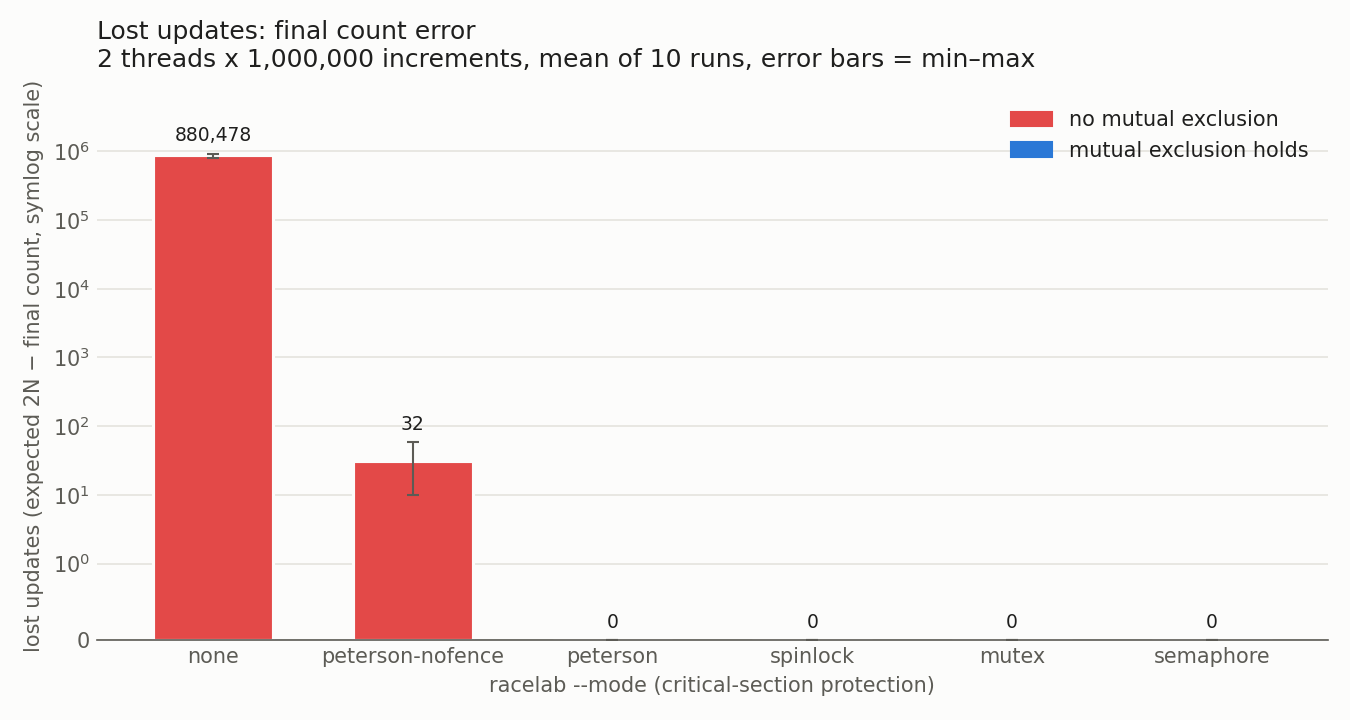
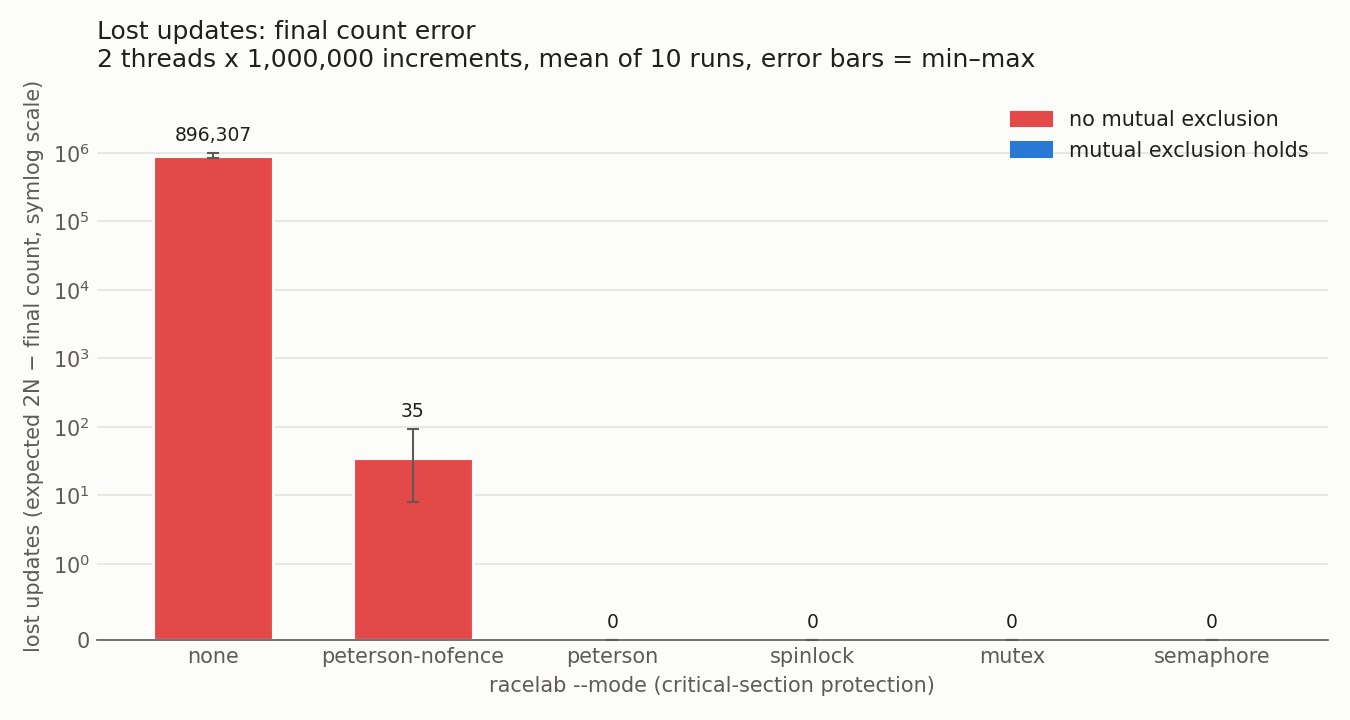
[Phase 3] Gate M3: phase3_check (zero deadlocks in E3 under avoid/prevent), lock hierarchy, regenerated E3/E4

diff --git a/docs/EXPERIMENTS.md b/docs/EXPERIMENTS.md
@@ -459,21 +459,21 @@ modify and write, inside the entry and exit sections of mode M:
 ### Results
 | Mode | Lost updates, mean (min–max) | Runs that lost updates | Runtime, ms, mean (min–max) | ns per increment |
 |------|-----------------------------:|-----------------------:|----------------------------:|-----------------:|
-| `none` | 880,478 (812,723–925,737) | 10/10 | 16.8 (16.5–17.4) | 8.4 |
-| `peterson-nofence` | 31.6 (10–58) | **10/10** | 100.5 (59.3–109.5) | 50.2 |
-| `peterson` | 0 | 0/10 | 72.9 (51.0–88.7) | 36.4 |
-| `spinlock` | 0 | 0/10 | 38.8 (30.0–47.8) | 19.4 |
-| `mutex` | 0 | 0/10 | 41.8 (36.4–45.1) | 20.9 |
-| `semaphore` | 0 | 0/10 | 115.0 (102.9–125.8) | 57.5 |
+| `none` | 896,307 (852,297–977,276) | 10/10 | 16.9 (16.3–17.4) | 8.4 |
+| `peterson-nofence` | 34.8 (8–93) | **10/10** | 100.8 (57.8–110.5) | 50.4 |
+| `peterson` | 0 | 0/10 | 76.5 (73.9–79.7) | 38.3 |
+| `spinlock` | 0 | 0/10 | 32.6 (25.8–41.5) | 16.3 |
+| `mutex` | 0 | 0/10 | 42.7 (37.9–45.2) | 21.4 |
+| `semaphore` | 0 | 0/10 | 111.6 (101.3–123.1) | 55.8 |
 
 ![Lost updates per mode](figures/e4/e4_error.png)
 ![Runtime per mode](figures/e4/e4_runtime.png)
 
 ### What the data shows
-- **No protection loses about 44% of the updates,** and the final count is different every run
-  (between 1.07 and 1.19 million instead of 2 million). Both threads load the same value, both add 1,
+- **No protection loses about 45% of the updates,** and the final count is different every run
+  (between 1.02 and 1.15 million instead of 2 million). Both threads load the same value, both add 1,
   and both store it, so one increment disappears. The race window is the whole read-modify-write.
-- **The textbook Peterson fails on x86 in every run, but only rarely within a run:** it lost 10–58 of
+- **The textbook Peterson fails on x86 in every run, but only rarely within a run:** it lost 8–93 of
   2,000,000 updates (an earlier check: 20 failing runs out of 20). Peterson's proof assumes sequential
   consistency. x86 is TSO, which keeps every ordering *except* store → load. Each core holds its
   stores in a private store buffer and lets later loads overtake them. So thread 0 can still be
@@ -482,19 +482,19 @@ modify and write, inside the entry and exit sections of mode M:
   Textbooks assume sequential consistency because it makes the algorithm provable on paper; CPUs
   give it up for speed. The fenced `peterson` drains the store buffer before the loads and lost
   nothing in 10 runs (and in 20 extra runs). ThreadSanitizer also passes it, because its flags are C11 atomics.
-- **The fence is not what makes Peterson slow.** `peterson` (73 ms) is faster than the unfenced version
+- **The fence is not what makes Peterson slow.** `peterson` (77 ms) is faster than the unfenced version
   (101 ms), and both are about 2× slower than the spinlock or mutex. The likely cause, which we did not
   measure, is that Peterson hands the turn to the other camp whenever both want in. Under constant
   contention that becomes near-strict alternation, so the counter and flag cache lines move between
   cores on almost every increment. The spinlock and mutex are not fair: the thread that just unlocked
   usually relocks at once while the line is still in its cache.
-- **Spinlock vs mutex:** they are about the same here (39 vs 42 ms). The critical section is a few
+- **Spinlock vs mutex:** they are about the same here (33 vs 43 ms). The critical section is a few
   nanoseconds, so a spinning waiter gets the lock almost immediately. A spinlock wastes a whole CPU
   while it waits, so it only pays off for very short sections on a multiprocessor. With one CPU, or a
   long section, the mutex wins because its waiter sleeps.
-- **The semaphore is the slowest correct mode** (115 ms). It does the same job as the mutex but goes
-  through glibc's general counting-semaphore code and made more futex calls under contention (593 vs
-  396). We did not profile further.
+- **The semaphore is the slowest correct mode** (112 ms). It does the same job as the mutex but goes
+  through glibc's general counting-semaphore code and made more futex calls under contention (450 vs
+  348). We did not profile further.
 
 ### How a Linux mutex becomes a futex (strace)
 `run_e4.sh` also runs `strace -f -e trace=futex -c` on each primitive. The full output is in
@@ -502,9 +502,9 @@ modify and write, inside the entry and exit sections of mode M:
 
 | Run | Lock operations | futex system calls |
 |-----|----------------:|-------------------:|
-| `mutex`, 2 threads (contended) | 2,000,000 | 396 (134 returned EAGAIN) |
+| `mutex`, 2 threads (contended) | 2,000,000 | 348 (113 returned EAGAIN) |
 | `mutex`, 1 thread (uncontended) | 1,000,000 | 3 |
-| `semaphore`, 2 threads | 2,000,000 | 593 (229 EAGAIN) |
+| `semaphore`, 2 threads | 2,000,000 | 450 (169 EAGAIN) |
 | `semaphore`, 1 thread | 1,000,000 | 3 |
 | `spinlock`, 2 threads | 2,000,000 | 4 |
 
@@ -515,7 +515,7 @@ modify and write, inside the entry and exit sections of mode M:
   only when that CAS finds the lock taken: `FUTEX_WAIT` puts the thread to sleep in the kernel, and the
   unlocker sees the waiter bit and calls `FUTEX_WAKE`. EAGAIN means the lock word changed between the
   failed CAS and the `FUTEX_WAIT`, so the kernel returned at once instead of sleeping.
-- **Even under full contention,** only about 1 lock operation in 5,000 needed the kernel (396 of
+- **Even under full contention,** only about 1 lock operation in 5,700 needed the kernel (348 of
   2,000,000). The semaphore is built the same way.
 - **The spinlock never makes a system call:** it waits by spinning on the CPU instead.
 - strace stops the traced thread on every futex call, which changes the timing and therefore the

diff --git a/docs/ARCHITECTURE.md b/docs/ARCHITECTURE.md
@@ -533,6 +533,73 @@ sudo apt install graphviz
 dot -Tpng docs/waitfor.dot -o docs/waitfor.png
 ```
 
+## Phase 3: the lock hierarchy (why reliefd itself cannot deadlock)
+reliefd runs many threads:
+- the main thread;
+- the rescue teams and the clock;
+- the dock's producers and trucks;
+- the Banker's allocator and the detector.
+
+The camps are separate processes. The rule that keeps our own code free of deadlocks is resource
+ordering, the same technique as `--deadlock prevent`, applied to locks. Every lock has a level. A
+thread may take a lock only if every lock it already holds has a *lower* level. A cycle of threads
+each waiting for a lock the next one holds would need L1 < L2 < … < L1, which is impossible, so the
+circular-wait condition can never hold.
+
+| Level | Lock | Kind | Guards | Taken by |
+|------:|------|------|--------|----------|
+| 1 | `resmgr.lock` (+ condvars `wake`, `tick`) | pthread mutex | Banker's state, waiting/granted lists, reply queues | main thread, allocator, detector |
+| 1 | `dispatcher.lock` (+ condvar `work`) | pthread mutex | ready queue, running jobs, counters | main thread, teams, clock |
+| 2 | `dock.olock` (+ condvar `ocond`) | pthread mutex | the dock's order FIFO | main thread, allocator (via `on_grant`), producers |
+| 3 | dock `mutex` (and the counting semaphores `empty`, `full`) | POSIX semaphores | the circular buffer and its statistics | producers, trucks, main thread (`dock_publish`) |
+| 3 | `inventory.rw` | rwsync: semaphores or pthread rwlock | stock per warehouse | producers (write), trucks + main thread (read) |
+| 4 | shm `lock` (`/reliefos_status`) | process-shared, robust pthread mutex | the status table | reliefd's publishers, every camp (its own row) |
+| 5 | `g_log_lock` | pthread mutex | the log sinks | everyone; always last |
+
+The two locks at level 1 are never held together, and neither are the two at level 3.
+
+```
+   level 1   resmgr.lock ───────────────┐            dispatcher.lock
+                │ on_grant: kits → dock  │                  │ publish_locked
+                ▼                        │                  │
+   level 2   dock.olock                  │                  │
+                                         │                  │
+   level 3   dock mutex (sem)   inventory.rw                │
+                │ note_produce/consume   (taken alone)      │
+                │                        │                  ▼
+   level 4      │                        │            shm status lock ◄── camps (alone)
+                ▼                        ▼                  │
+   level 5   g_log_lock ◄─────────────────────────────────────┘   (leaf: never takes another lock)
+```
+Every arrow points down. These are the only places that take a second lock while holding one,
+checked by reading every lock site:
+- **resmgr → dock order queue:** `resmgr.lock → dock.olock`: a granted kit request goes on to the
+  dock (`on_grant` → `dock_submit`).
+- **dispatcher → shm:** `dispatcher.lock → shm lock`: `publish_locked` copies the scheduler state
+  into the status table.
+- **anything → log:** `dock mutex → log` (produce/consume are logged inside the buffer's critical
+  section, so the log is the buffer's exact history), `resmgr.lock → log`, `dispatcher.lock → log`,
+  `shm lock → log` (a robust-mutex recovery warning).
+
+**Copy, release, publish.** The dock, the inventory and the resource manager never nest with the
+shm lock. Each copies its state under its own lock, releases it, then takes the shm lock
+(`dock_publish`, `inventory_publish`, `resmgr_publish`), which keeps the graph shallow.
+
+**Waits that are not locks:**
+- **Dock semaphores:** a producer waits on `empty` and a truck on `full` *before* taking the
+  buffer's `mutex`, and never while holding any other lock. Taking `mutex` first would deadlock a
+  full dock: the textbook ordering note next to `dockbuf_put`.
+- **Condition variables** release their mutex while waiting.
+- **Reply queues:** the allocator sends replies to the camps' queues while holding
+  `resmgr.lock`, but with a bounded `mq_timedsend` (5 × 100 ms). A camp that stops reading can
+  delay the allocator, never block it forever. An undeliverable grant is undone, so the Banker's
+  state stays consistent.
+
+**Signals and processes:** worker threads block every signal, so handlers (which only set flags)
+always run on the main thread, where no lock is held at that point. A camp is single-threaded. It takes the shm lock to update its own row, and inside it at most its
+own log lock (level 4 → 5, a recovery warning). It never waits for reliefd while holding them. The robust mutex
+(`EOWNERDEAD`) means a camp that dies holding it cannot block reliefd.
+
 ## Structured log (`$RELIEF_HOME/logs/reliefd.log`)
 One event per line: `ts=<iso8601> level=<lvl> comp=reliefd pid=<pid> event=<name> key=value ...`.
 Values contain no spaces, except `msg="..."` on free-form `event=log` lines. Events include

diff --git a/CLAUDE.md b/CLAUDE.md
@@ -33,7 +33,7 @@ Layout (folders marked * are created in later phases):
 - `scripts/`: `reliefctl` (getopts, awk; must pass shellcheck), `stockcheck.sh` (cron job, documented, not installed)
 - `tests/`: `smoke.sh` (IPC), `camps.sh` (supervision), `traffic.sh` (paced traffic, full queue), `signals.sh`
   (alert/dump/graceful exit), `status.sh` (shm), `cli.sh` (reliefctl), `phase1_smoke.sh` (gate M1), `sched.sh`
-  (`test_sched.c` + schedsim), `dispatch.sh` (live, TSan), `linuxsched.sh`, `phase2_check.sh` (gate M2), `racelab.sh` (racy modes skipped under TSan), `sync.sh` (`test_sync.c` + rwlab), `dock.sh`, `banker.sh` (`test_banker.c`), `deadlock.sh`; `helpers/`
+  (`test_sched.c` + schedsim), `dispatch.sh` (live, TSan), `linuxsched.sh`, `phase2_check.sh` (gate M2), `racelab.sh` (racy modes skipped under TSan), `sync.sh` (`test_sync.c` + rwlab), `dock.sh`, `banker.sh` (`test_banker.c`), `deadlock.sh`, `phase3_check.sh` (gate M3); `helpers/`
 - `scenarios/`: `camps.conf` (`<id> <name>` per line) and workload CSVs
   (`arrival_min,camp_id,severity,resource,quantity,service_time`). `flood_pune.csv` is generated by
   `experiments/gen_scenario.py`, so regenerate it rather than editing it by hand (`tests/traffic.sh` checks this)
@@ -116,5 +116,5 @@ Layout (folders marked * are created in later phases):
 Work the phases in order. Within a phase, ship all P0 features before any P1/P2.
 
 ## Current status
-Phase 2 complete (gate M2). Phase 3: steps 1-5 done (racelab/E4; dock, inventory, rwlab/E5; Banker's; prevent/detect; dlsim/E3). Next: Phase 4.
+Phase 2 complete (gate M2). Phase 3 complete (gate M3: `tests/phase3_check.sh`; E3, E4, E5 and the lock hierarchy in docs). Next: Phase 4.
 Update this line as steps complete.

diff --git a/README.md b/README.md
@@ -121,7 +121,7 @@ On the flood scenario with 3 teams (`schedsim --policy P --teams 3`):
 ### Critical section: racelab
 Two camps (threads) share one boat and both add N to one inventory counter (read, modify, write):
 ```sh
-build/racelab --mode none               # race condition: about 44% of 2,000,000 updates lost
+build/racelab --mode none               # race condition: about 45% of 2,000,000 updates lost
 build/racelab --mode peterson-nofence   # textbook Peterson: loses a few dozen on x86 (store buffers)
 build/racelab --mode peterson           # with a seq_cst fence: always 2,000,000
 build/racelab --mode mutex|spinlock|semaphore [--iters N] [--threads 1] [--csv F]
